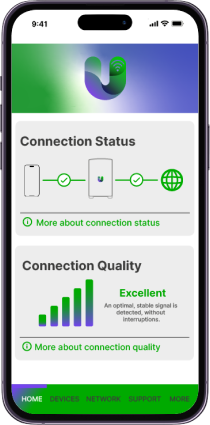
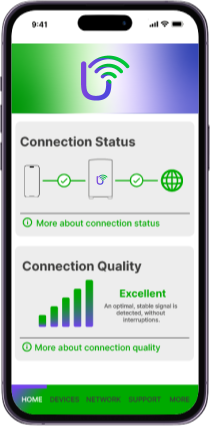
Separacion de how it works (ahora es una pagina)

diff --git a/src/components/react_components/TopMenu.module.css b/src/components/react_components/TopMenu.module.css
@@ -29,9 +29,10 @@
   .navigation {
     display: flex;
     flex-direction: row;
+    flex-grow: 1;
     justify-content: center;
     width: 100%;
-    gap: clamp(10px, 250vw, 32px);
+    gap: clamp(10px, 25vw, 80px);
     align-self: center;
   }
 
@@ -42,7 +43,7 @@
     text-transform: uppercase;
     align-self: start;
     font-weight: 800;
-    font-size: clamp(14px, 2vw, 40px);
+    font-size: clamp(14px, 2vw, 30px);
   
   }
   .selected-link-mobile, .linkmobil{
@@ -108,7 +109,25 @@
   .navigation {
       display: none; /* Oculta el menú de navegación en pantallas pequeñas */
   }
-    
+  .selected-link-mobile, .linkmobil{
+
+    padding: 8px;
+    font-weight: 600;
+    font-size: clamp(14px, 8vw, 20px);
+    border-bottom: #fff 1px solid;
+    width: 100%;
+  }
+  }
+  @media screen and (max-width: 450px) {
+ 
+  .selected-link-mobile, .linkmobil{
+
+    padding: 8px;
+    font-weight: 600;
+    font-size: clamp(14px, 8vw, 16px);
+    border-bottom: #fff 1px solid;
+    width: 100%;
+  }
   }
 
 

diff --git a/src/components/react_components/TopMenu.jsx b/src/components/react_components/TopMenu.jsx
@@ -8,9 +8,10 @@ const TopMenu = () => {
         { name: 'HOME', url: '/', alterurl:"/#home" },
         { name: 'ACP', url: '/#acp', alterurl:"/acp" },
         { name: 'PLAN', url: '/#plan', alterurl:"/#plan" },
-        { name: 'HOW?', url: '/#howit', alterurl:"/howit" },
-        { name: 'APP', url: '/#app', alterurl:"/#app" },
-        { name: '5G', url: '/#5g', alterurl:"/#5g" },
+        { name: 'HOW IT WORKS', url: '/howitworks', alterurl:"/howitworks" },
+/*         { name: 'APP', url: '/#app', alterurl:"/#app" }, */
+        { name: 'FAQ', url: '/#faq', alterurl:"/#faq" },
+/*         { name: '5G', url: '/#5g', alterurl:"/#5g" }, */
     ];
     const location = useLocation();
     let currentPath = location.pathname;
